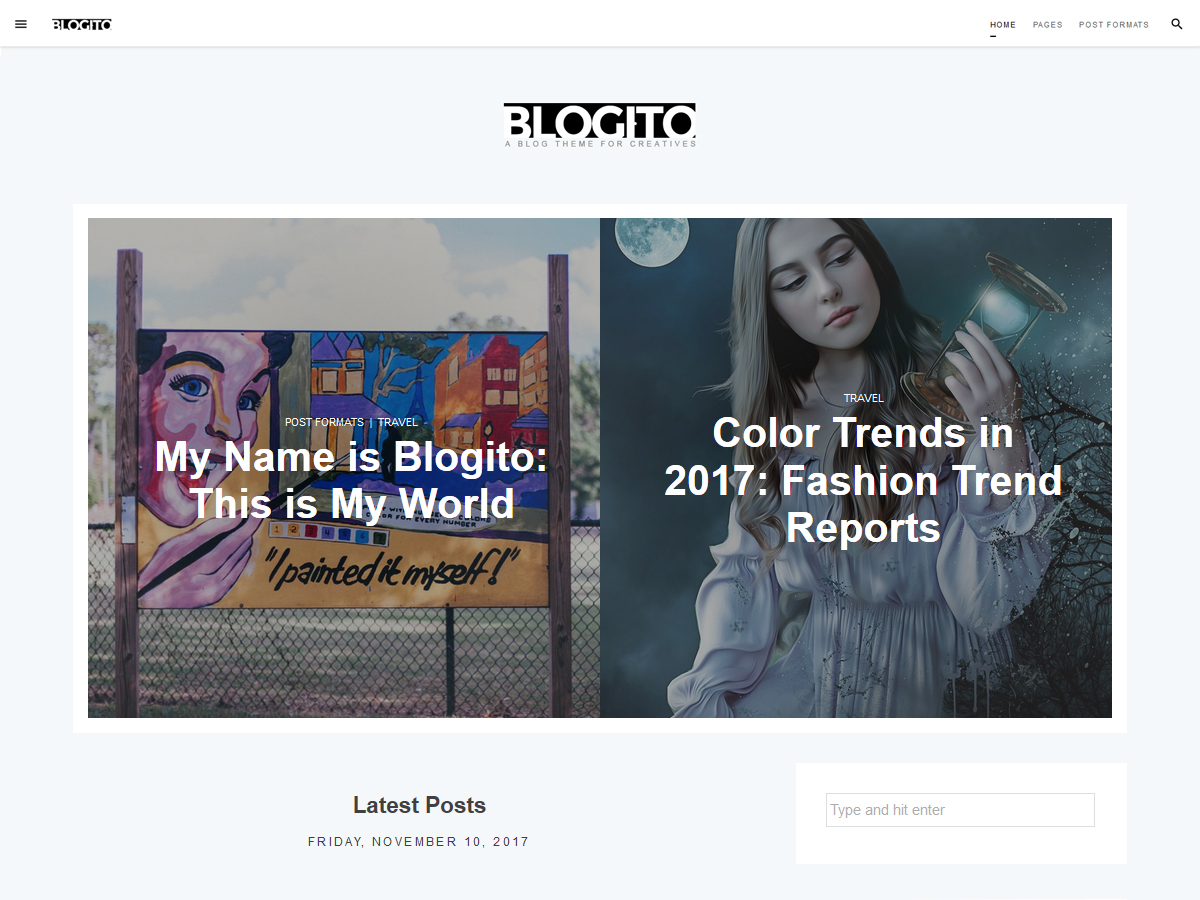
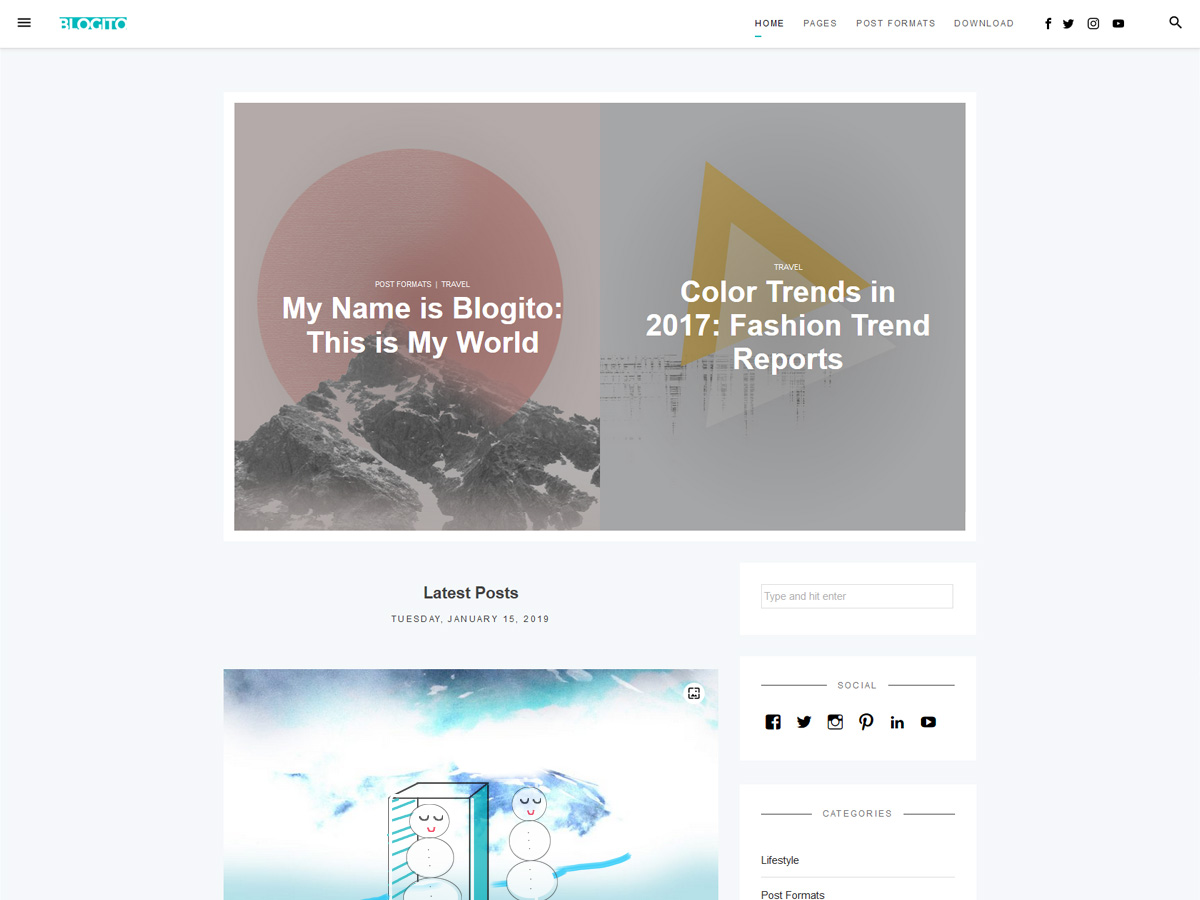
screenshot changed and slick slider handling improved

diff --git a/scss/underscores/style.scss b/scss/underscores/style.scss
@@ -4,7 +4,7 @@ Theme URI: https://blogonyourown.com/themes/blogito/
 Author: BlogOnYourOwn.com
 Author URI: https://blogonyourown.com
 Description: Say hello to Blogito a lifestyle blog with unique & clear design, created for anyone with story to share. Blogito is a modern WordPress Blog Theme crafted with high attention to details. This premium theme provides top quality design and can be used for blog, magazine, news, travel, fashion or other type website. Blogito is perfect fit for you. No Coding Skills Required. Tested with new block editor (Gutenberg). Support for AMP plugin.
-Version: 1.4.2
+Version: 1.4.3
 License: GNU General Public License v2 or later
 License URI: http://www.gnu.org/licenses/gpl-2.0.html
 Text Domain: blogito

diff --git a/style.css b/style.css
@@ -5,7 +5,7 @@ Theme URI: https://blogonyourown.com/themes/blogito/
 Author: BlogOnYourOwn.com
 Author URI: https://blogonyourown.com
 Description: Say hello to Blogito a lifestyle blog with unique & clear design, created for anyone with story to share. Blogito is a modern WordPress Blog Theme crafted with high attention to details. This premium theme provides top quality design and can be used for blog, magazine, news, travel, fashion or other type website. Blogito is perfect fit for you. No Coding Skills Required. Tested with new block editor (Gutenberg). Support for AMP plugin.
-Version: 1.4.2
+Version: 1.4.3
 License: GNU General Public License v2 or later
 License URI: http://www.gnu.org/licenses/gpl-2.0.html
 Text Domain: blogito

diff --git a/functions.php b/functions.php
@@ -177,9 +177,11 @@ function blogito_scripts() {
 	$blogito_theme_info = wp_get_theme();
 	wp_enqueue_style( 'blogito-style', get_stylesheet_uri(), array(), $blogito_theme_info->get( 'Version' ) );
 
+	wp_register_script( 'slick', get_template_directory_uri() . '/slick/slick.min.js', array( 'jquery' ), '20150828', true );
 	$blogito_gallery_class = get_theme_mod( 'gallery_class', '.gallery' );
+	
 	if ( ! empty( $blogito_gallery_class ) ) {
-		wp_enqueue_script( 'slick', get_template_directory_uri() . '/slick/slick.min.js', array( 'jquery' ), '20150828', true );
+		wp_enqueue_script( 'slick' );
 	}
 
 	if ( ! is_singular() && ! is_404() && have_posts() ) {

diff --git a/footer.php b/footer.php
@@ -49,7 +49,10 @@
 	</nav><!-- #site-navigation -->
 	<?php get_sidebar( 'left' ); ?>
 	<div class="site-info">
-		<?php echo wp_kses_post( get_theme_mod( 'footer_text', '<p>&copy; 2016 ' . get_bloginfo( 'name' ) . '</p>' ) ); ?>
+		<?php 
+		$blogito_dafault_sidebar_text = '<p>&copy; ' . date_i18n( __( 'Y', 'blogito' ) ) . ' ' . get_bloginfo( 'name' ) . '</p>';
+		echo wp_kses_post( get_theme_mod( 'footer_text', $blogito_dafault_sidebar_text ) );
+		?>
 	</div><!-- .site-info -->
 	</div>
 </div>

diff --git a/template-parts/content-home-slider.php b/template-parts/content-home-slider.php
@@ -10,6 +10,7 @@
 $blogito_sticky_posts = get_option( 'sticky_posts' );
 if ( ! empty( $blogito_sticky_posts ) ) :
 
+	wp_enqueue_script( 'slick' );
 	$blogito_args = array(
 		'posts_per_page' => 10,
 		'post__in' => $blogito_sticky_posts,

diff --git a/CHANGELOG.md b/CHANGELOG.md
@@ -1,5 +1,13 @@
 # Changes to Blogito
 
+## [1.4.3] - 2019-01-16
+
+### Fixed
+- Slider settings for home page slider
+
+### Changed
+- Screenshot changed to fit updated image policy on wp.org
+
 ## [1.4.2] - 2019-01-09
 
 ### Fixed
